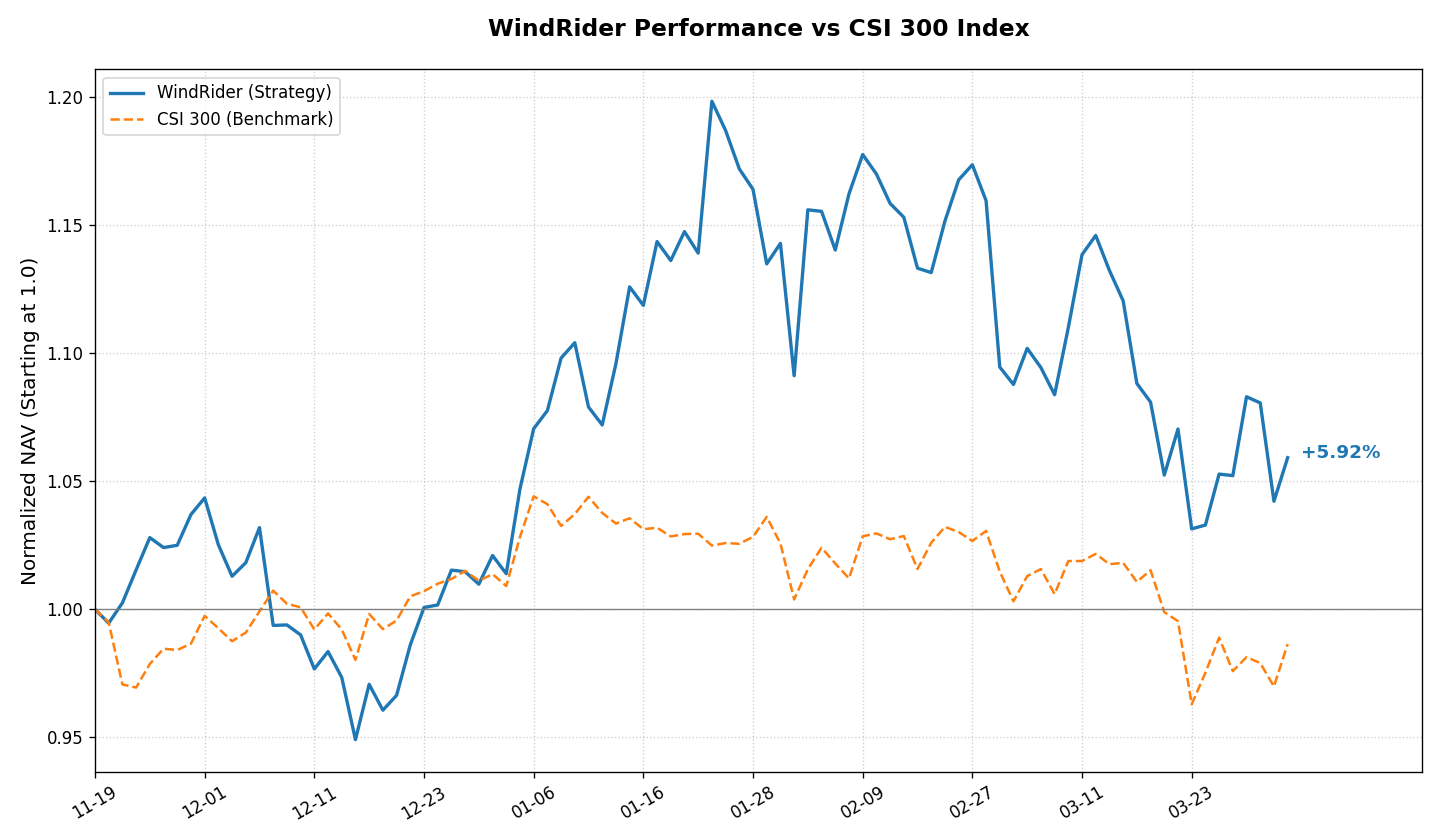
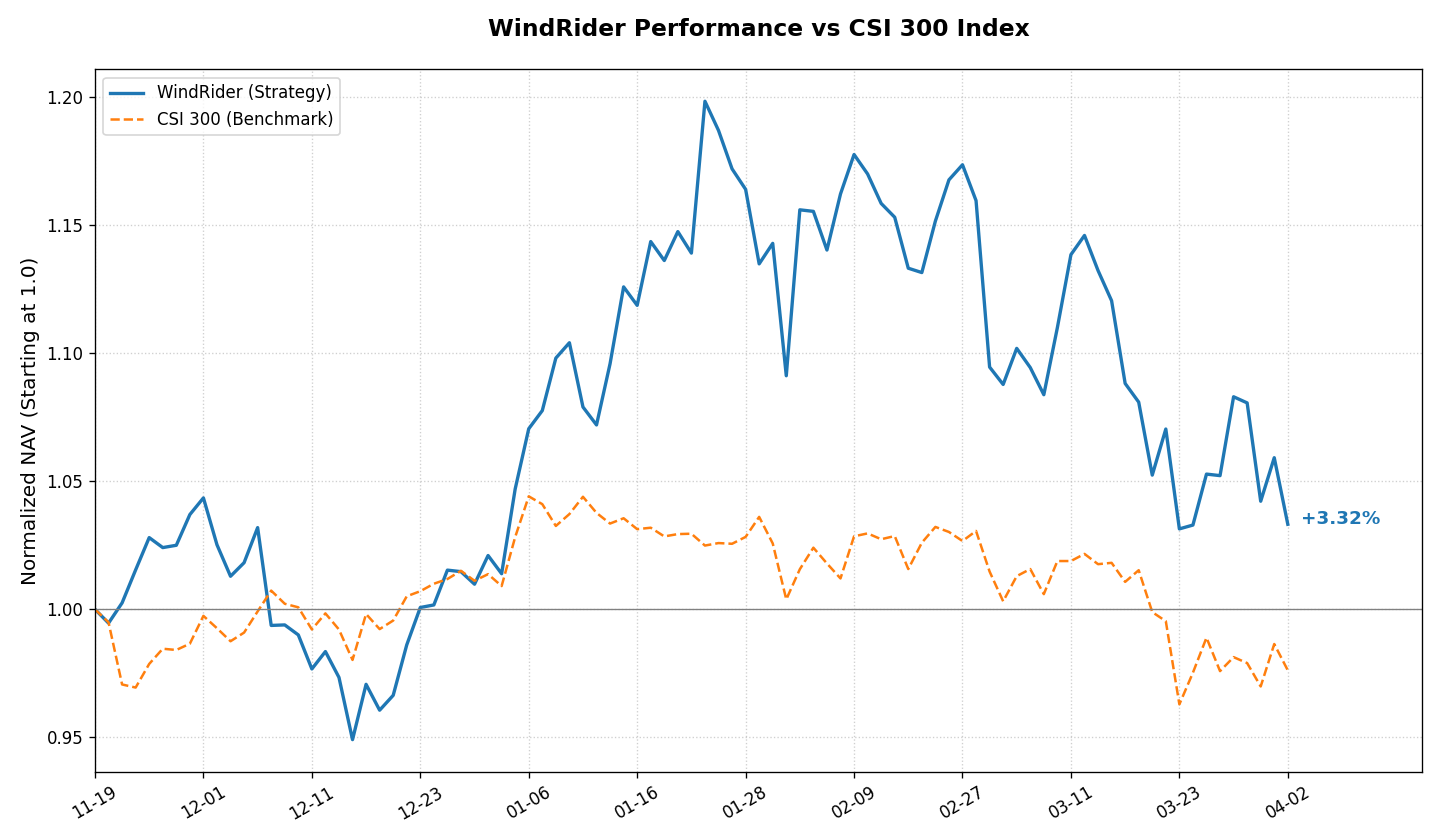
Updated Hugo site content

diff --git a/content/investment/position.md b/content/investment/position.md
@@ -1,8 +1,8 @@
 +++
 title = "如山-股票组合持仓 /// Position"
 summary = "主动管理型股票组合。对标沪深300指数，采用基本面选股策略。"
-date = 2026-04-01T15:12:04+08:00
-lastmod = 2026-04-01T15:12:04+08:00
+date = 2026-04-02T15:12:04+08:00
+lastmod = 2026-04-02T15:12:04+08:00
 draft = false
 description = "如山股票组合持仓"
 +++
@@ -12,29 +12,29 @@ description = "如山股票组合持仓"
 
 ### 风舵股票组合 &nbsp;&nbsp;<span style="color: #E63946; font-weight: bold;">/</span><span style="color: #F1A73E; font-weight: bold;">/</span><span style="color: #000091; font-weight: bold;">/</span>&nbsp;&nbsp; 每日持仓
 WindRider Equity Portfolio <br>
-净值简报 <small>(截至: 2026-04-01)</small>
+净值简报 <small>(截至: 2026-04-02)</small>
 
 |  |  |
 | :--- | :--- |
 | **指数代码：** | WDR.EQ |
 | **成立日期：** | 2025-11-19 |
-| **最新净值：** | 1.0592 |
-| **今日涨跌：** | +1.63% |
+| **最新净值：** | 1.0332 |
+| **今日涨跌：** | -2.45% |
 
 ===========================
 
 | 核心表现 | |
 | :--- | :--- |
-| **累计收益：** | +5.92% |
-| **年化收益：** | +17.10% |
+| **累计收益：** | +3.32% |
+| **年化收益：** | +9.30% |
 | **最大回撤：** | -13.94% |
-| **基准点位：** | 4526.07 (CSI300) |
-| **策略状态：** | 已运行 134 天 |
+| **基准点位：** | 4478.91 (CSI300) |
+| **策略状态：** | 已运行 135 天 |
 
 ### 持仓明细
 | 股票名称 | 成本价 | 现价 | 盈亏 | 占比 |
 | :--- | :--- | :--- | :--- | :--- | :--- |
-| 先导智能 <small>300450</small> | 52.17 | 48.40 | <span style="color:#2A9D8F">-7.22%</span> | 98.05% |
+| 先导智能 <small>300450</small> | 52.17 | 47.19 | <span style="color:#2A9D8F">-9.54%</span> | 98.0% |
 
 <br>
 
